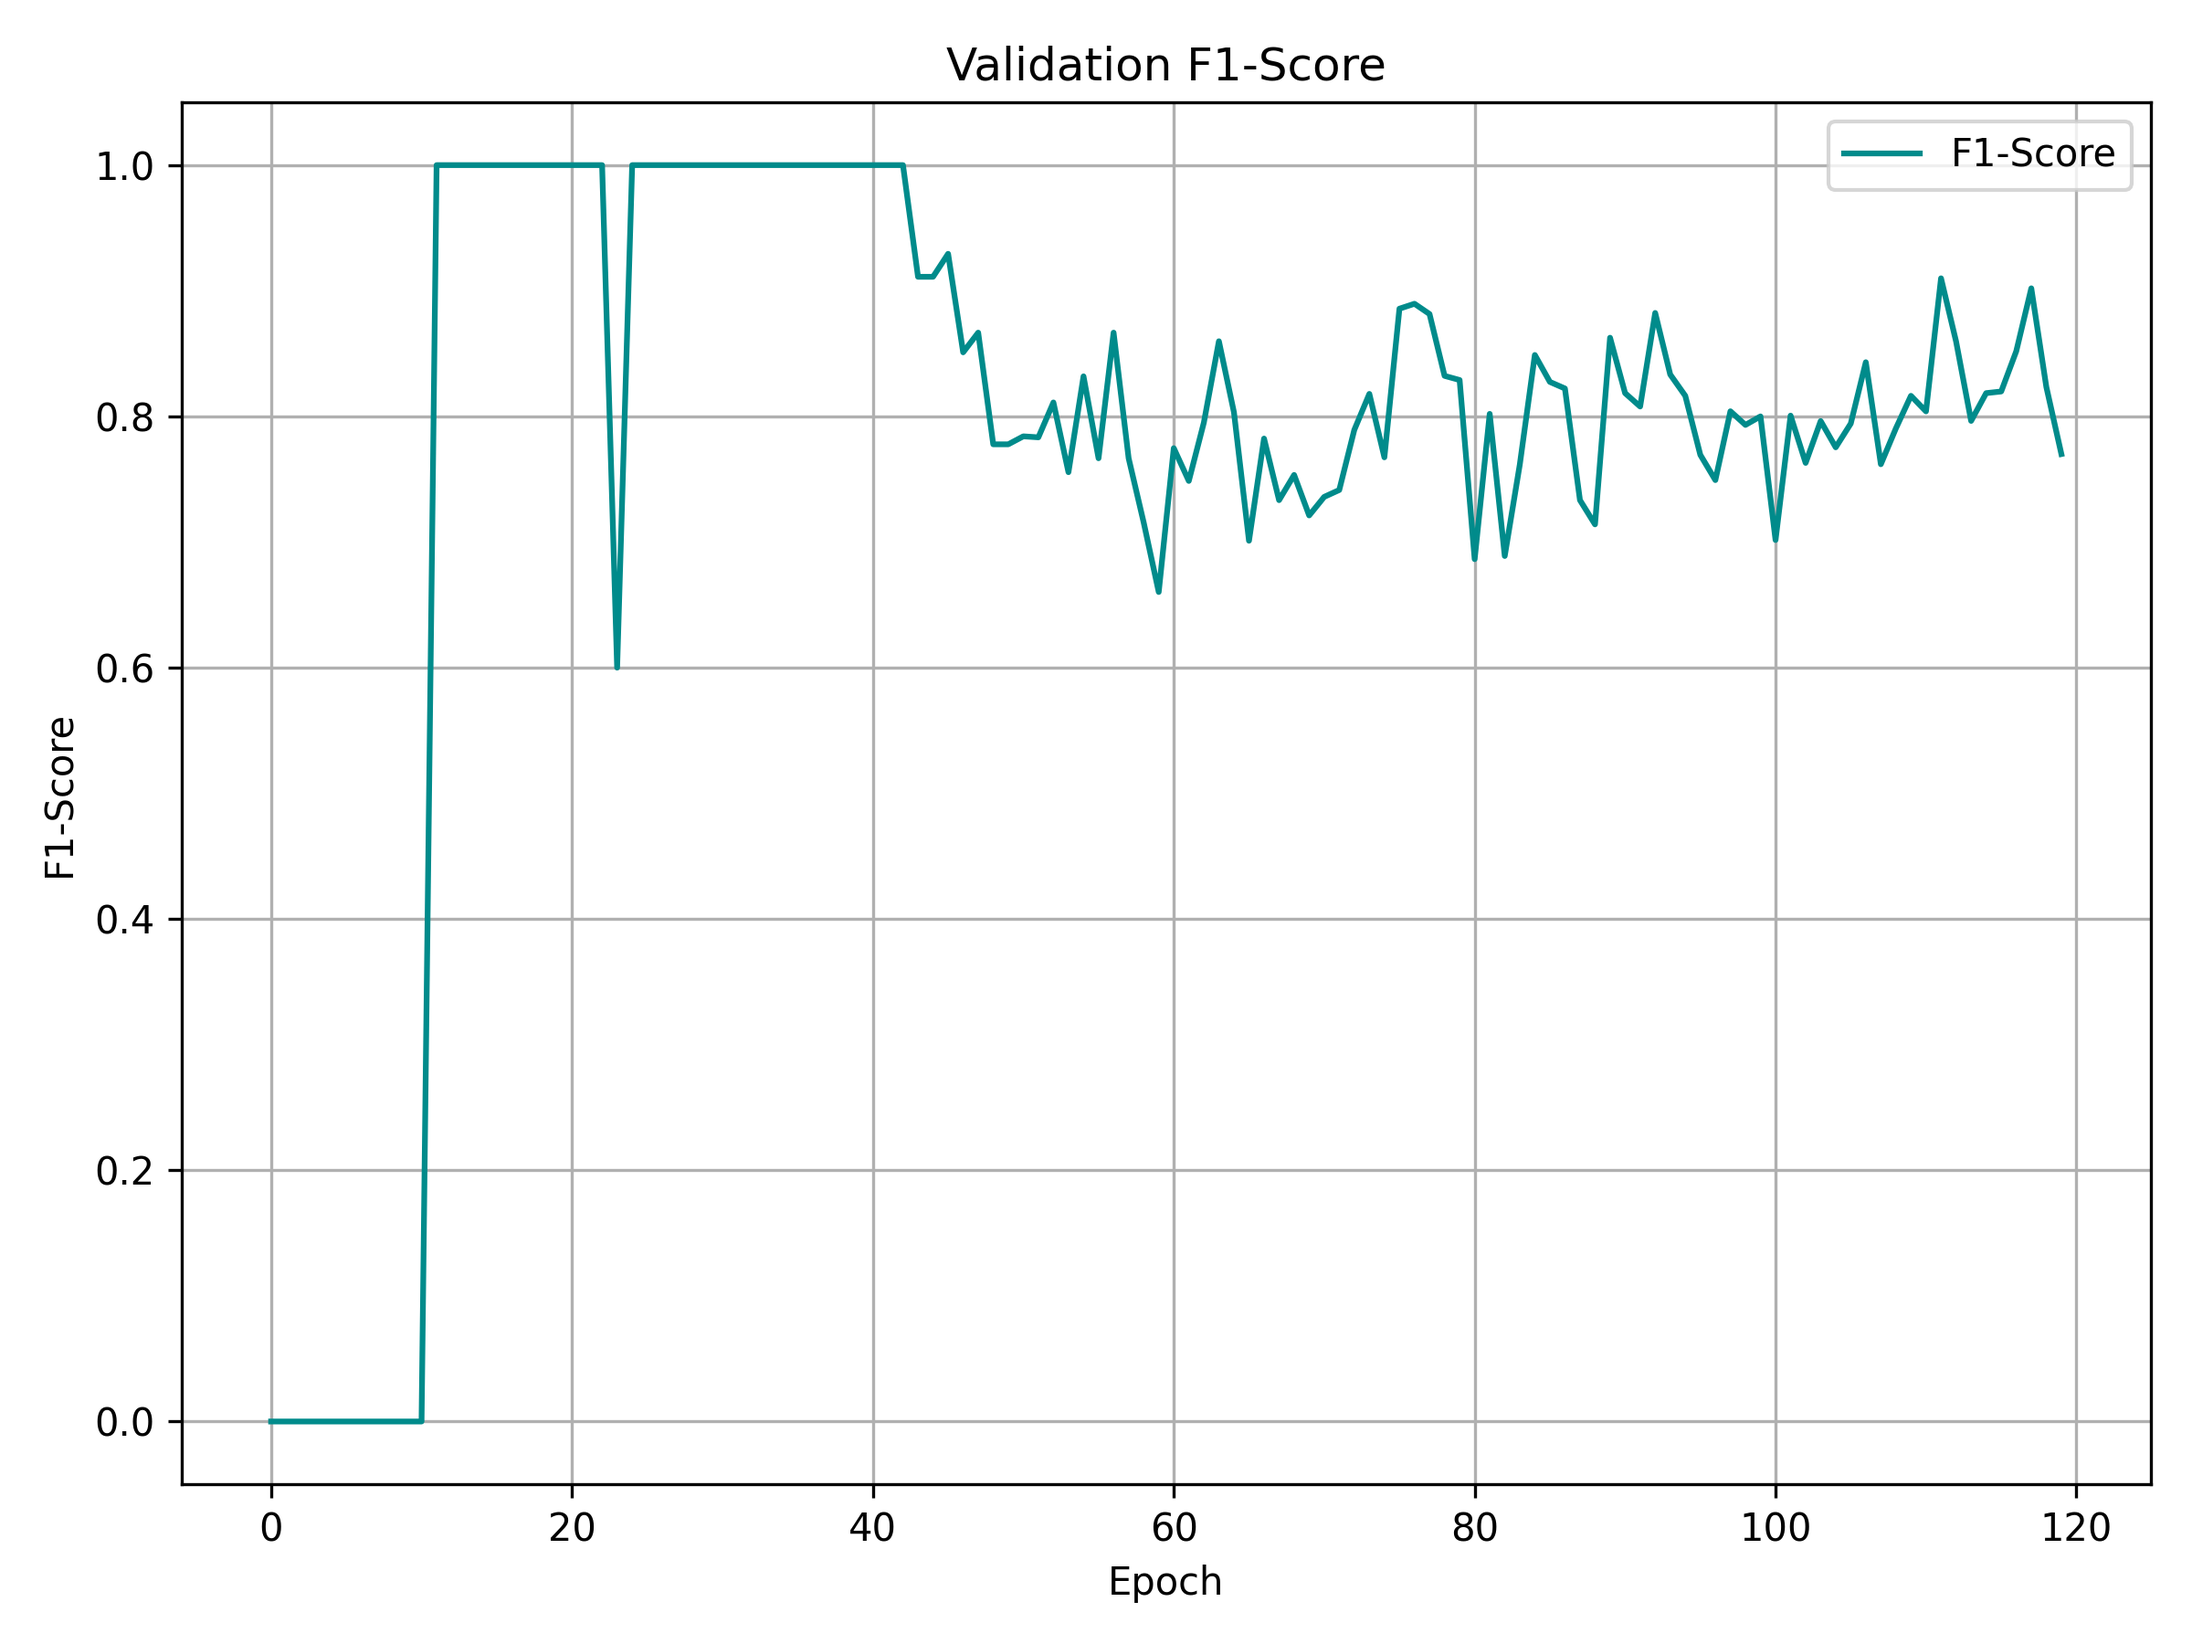
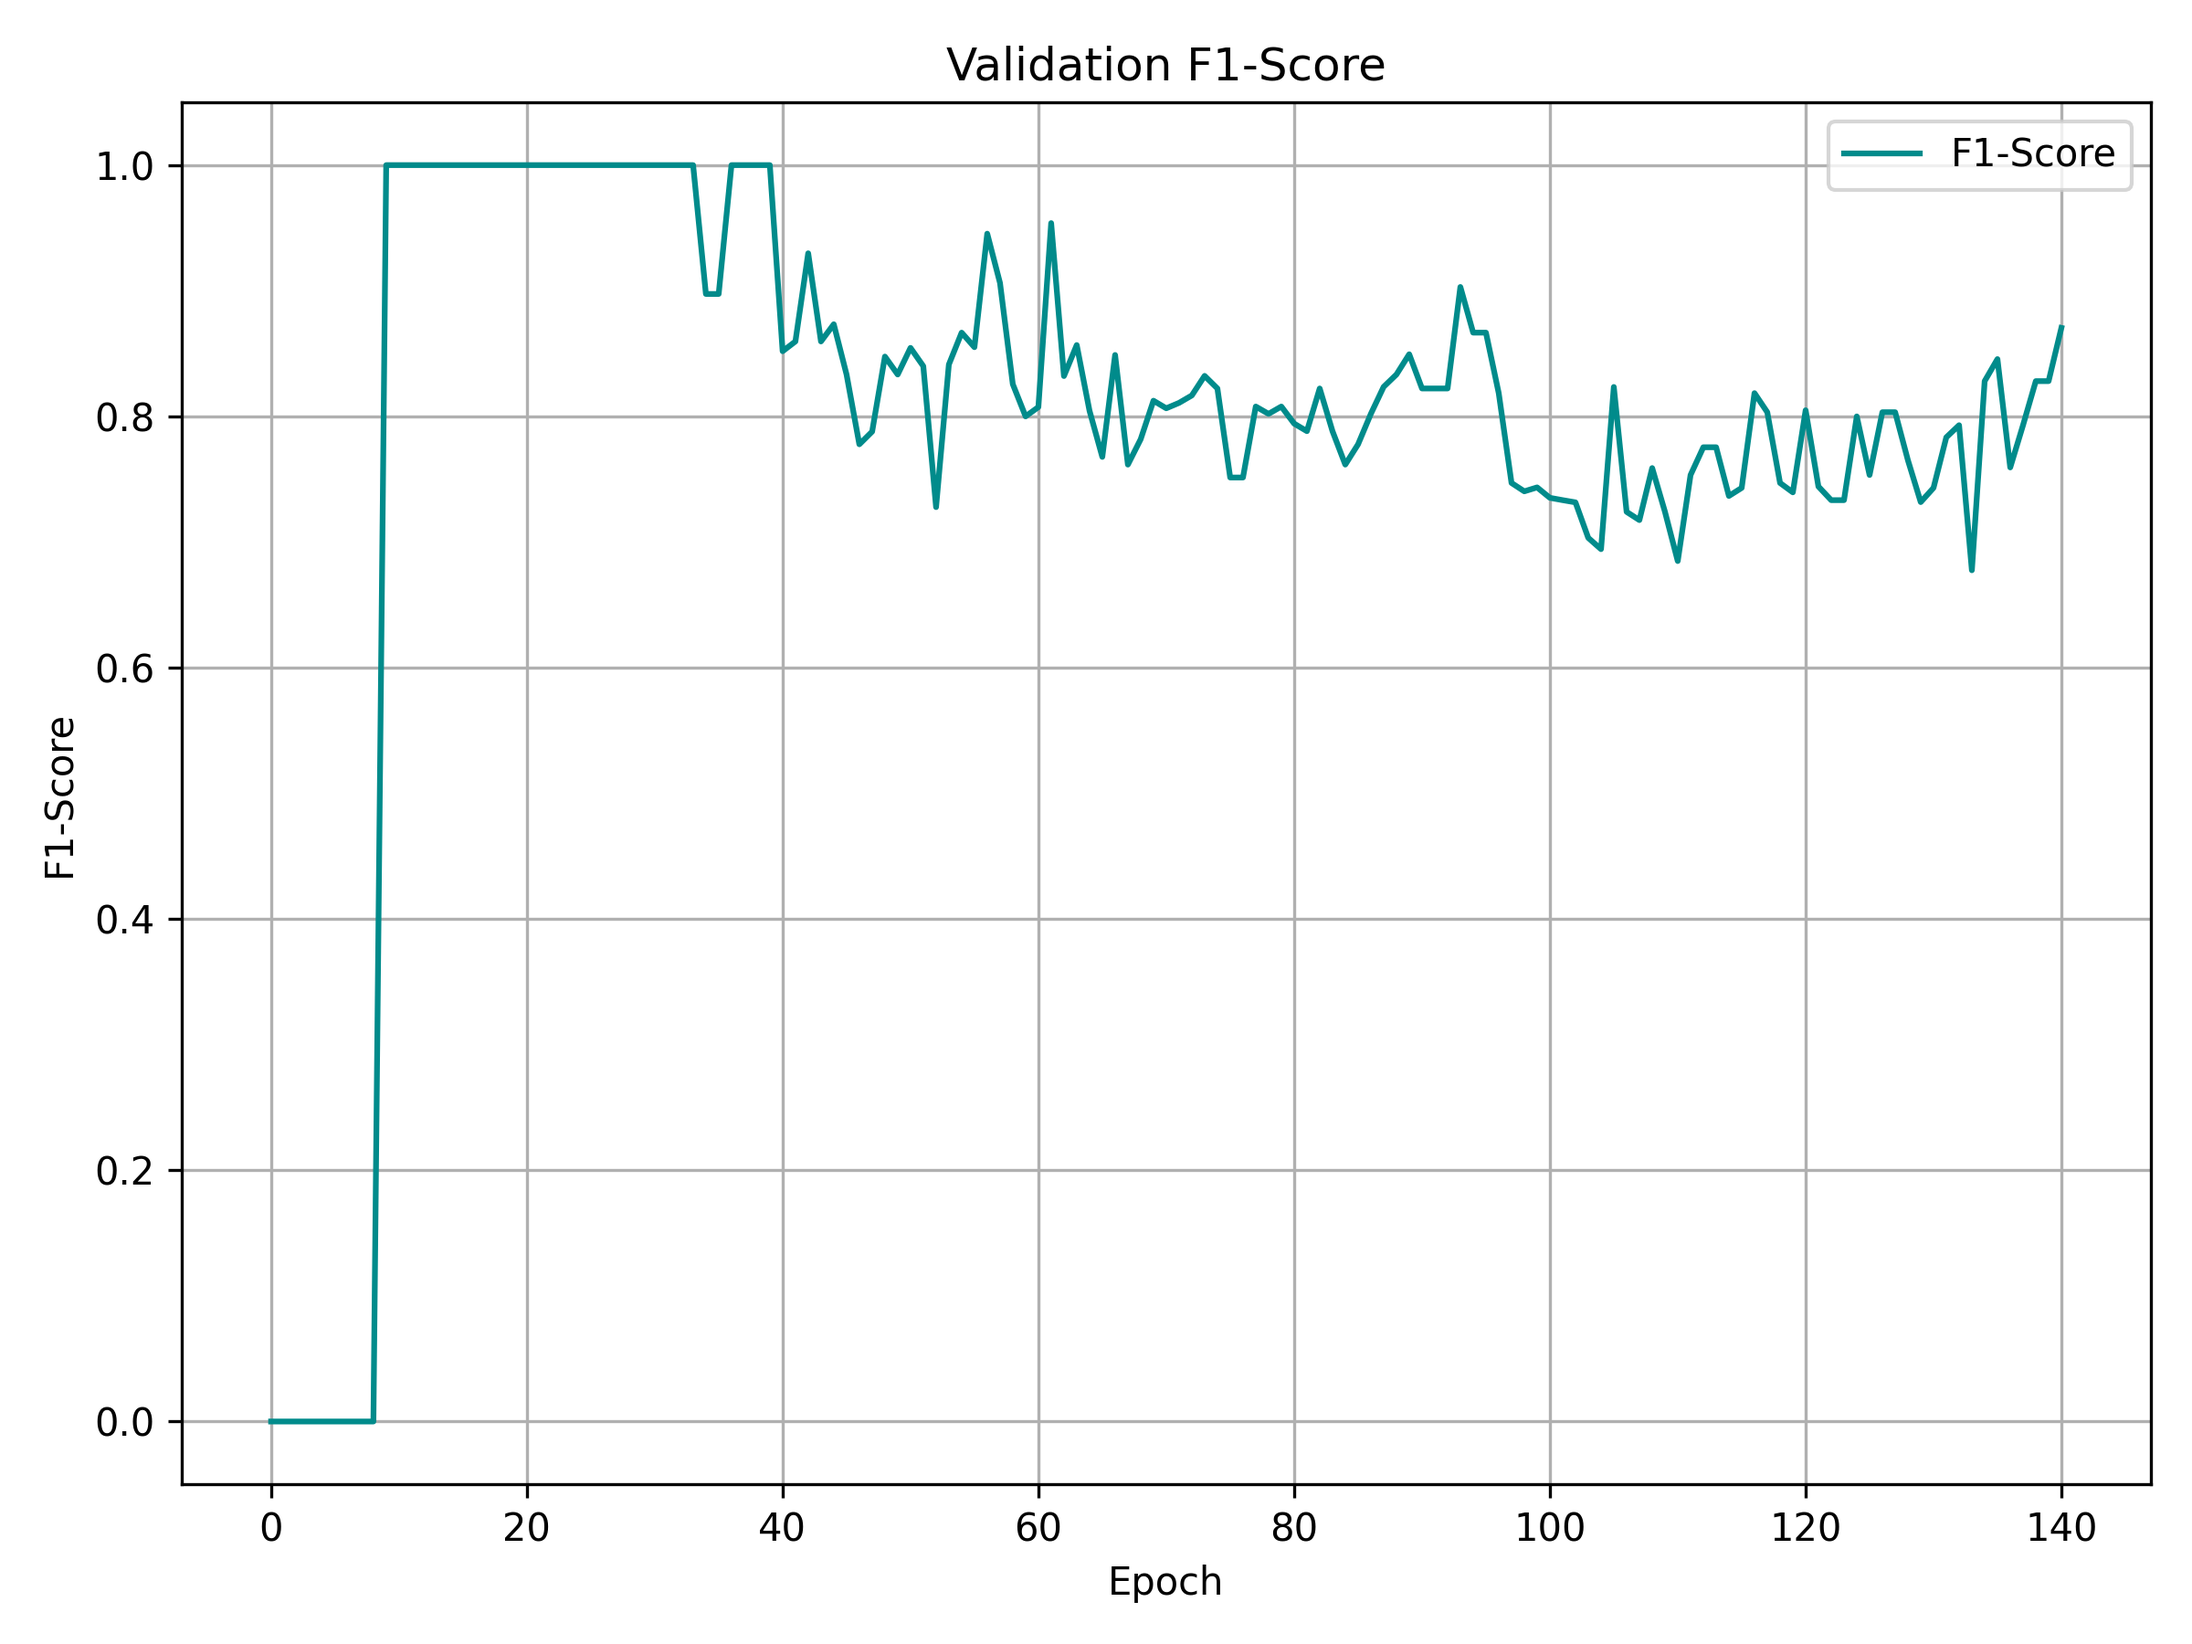
set diversi

diff --git a/data_utils.py b/data_utils.py
@@ -3,6 +3,8 @@ import torch
 from torch.utils.data import Dataset
 from sklearn.preprocessing import LabelEncoder, StandardScaler
 import joblib
+import time
+
 class FaceDataset(Dataset):
     def __init__(self, features, labels):
         if isinstance(features, torch.Tensor):
@@ -20,7 +22,7 @@ class FaceDataset(Dataset):
     def __getitem__(self, idx):
         return self.features[idx], self.labels[idx]
 
-def load_data(csv_path, train_split=0.7, val_split=0.15, test_split=0.15, seed=42):
+def load_data(csv_path, train_split=0.7, val_split=0.15, test_split=0.15, seed=None):
     assert abs(train_split + val_split + test_split - 1.0) < 1e-6, "Splits must sum to 1.0"
     
     df = pd.read_csv(csv_path)
@@ -42,10 +44,13 @@ def load_data(csv_path, train_split=0.7, val_split=0.15, test_split=0.15, seed=4
     total_size = len(dataset)
     train_size = int(train_split * total_size)
     val_size = int(val_split * total_size)
-    test_size = total_size - train_size - val_size  # Resto
-
-    generator = torch.Generator().manual_seed(seed)
-    train_dataset, val_dataset, test_dataset = torch.utils.data.random_split(dataset, [train_size, val_size, test_size], generator=generator)
+    test_size = total_size - train_size - val_size
+    
+    current_seed = seed if seed is not None else int(time.time())
+    generator = torch.Generator().manual_seed(current_seed)
+    
+    train_dataset, val_dataset, test_dataset = torch.utils.data.random_split(
+        dataset, [train_size, val_size, test_size], generator=generator
+    )
 
     return train_dataset, val_dataset, test_dataset, label_encoder
-

diff --git a/run.py b/run.py
@@ -13,28 +13,28 @@ from data_utils import load_data
 from model import FaceClassifier
 from train import train
 from test import evaluate
-
-def run_training():
+def run_training():  # Modifica qui per accettare seed come parametro
     # === Config ===
     csv_path = 'dataset_features_final.csv'
     batch_size = 32
     lr = 1e-3
-    num_epochs = 120
+    num_epochs = 200
     patience = 20
-    seed = 0
-
-    # === Seed per riproducibilità ===
-    '''random.seed(seed)
+    seed = 42
+    
+    # Usa seed solo se specificato, altrimenti sarà None
+    random.seed(seed)
     np.random.seed(seed)
     torch.manual_seed(seed)
-    torch.cuda.manual_seed_all(seed)
-    torch.backends.cudnn.deterministic = True
-    torch.backends.cudnn.benchmark = False'''
+    if torch.cuda.is_available():
+        torch.cuda.manual_seed_all(seed)
+    torch.backends.cudnn.deterministic = (seed is not None)
+    torch.backends.cudnn.benchmark = (seed is None)  
 
     device = torch.device('cuda' if torch.cuda.is_available() else 'cpu')
 
     # === Load data ===
-    train_dataset, val_dataset, test_dataset, label_encoder = load_data(csv_path)
+    train_dataset, val_dataset, test_dataset, label_encoder = load_data(csv_path, seed=seed) 
 
 
     train_loader = DataLoader(train_dataset, batch_size=batch_size, shuffle=True)

diff --git a/test.py b/test.py
@@ -95,14 +95,14 @@ def evaluate(model, dataloader, criterion, device, threshold=0.5, return_predict
     else:
         return avg_loss, accuracy, precision, recall, f1, avg_inference_time
 
-def run_test():
+def run_test(seed=None):  # Aggiungi seed come parametro opzionale
     csv_path = 'dataset_features_final.csv'
     batch_size = 32
 
     device = torch.device('cuda' if torch.cuda.is_available() else 'cpu')
 
-    # Load test data
-    _, _, test_dataset, label_encoder = load_data(csv_path)
+    # Load test data con eventuale seed
+    _, _, test_dataset, label_encoder = load_data(csv_path, seed=seed)
     test_loader = DataLoader(test_dataset, batch_size=batch_size, shuffle=True)
 
     input_dim = test_dataset[0][0].shape[0]

diff --git a/main.py b/main.py
@@ -4,7 +4,7 @@ import numpy as np
 from config import config
 
 if __name__ == "__main__":
-    run_training()
+    run_training()  # Esegui il training con un seed specifico
     run_test()
     '''print("Avvio server TCP per ricevere immagini da Unity...")
     config()
